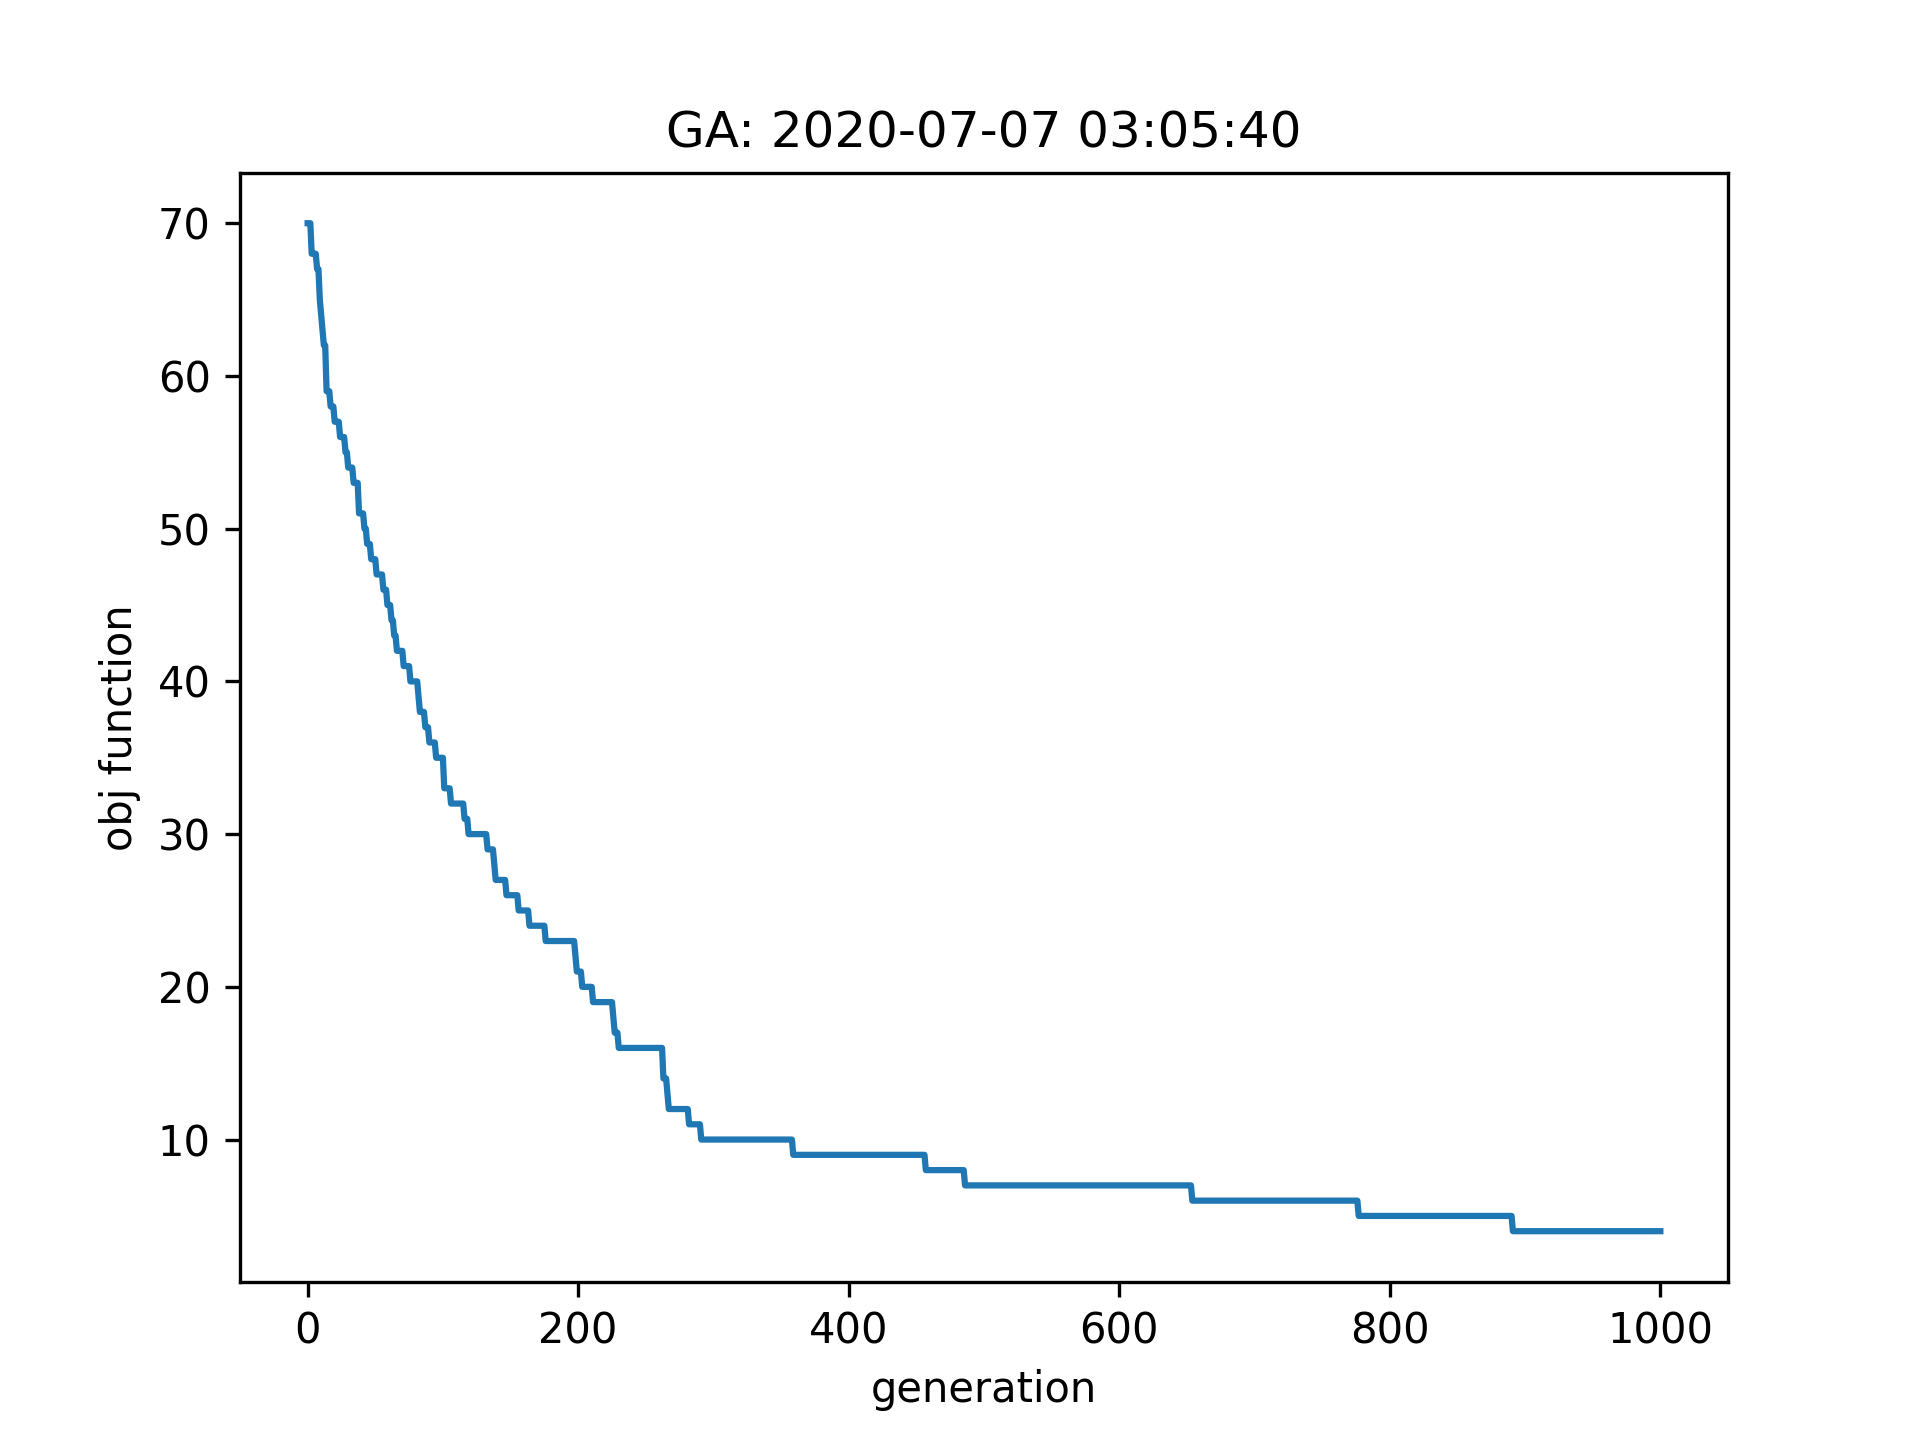
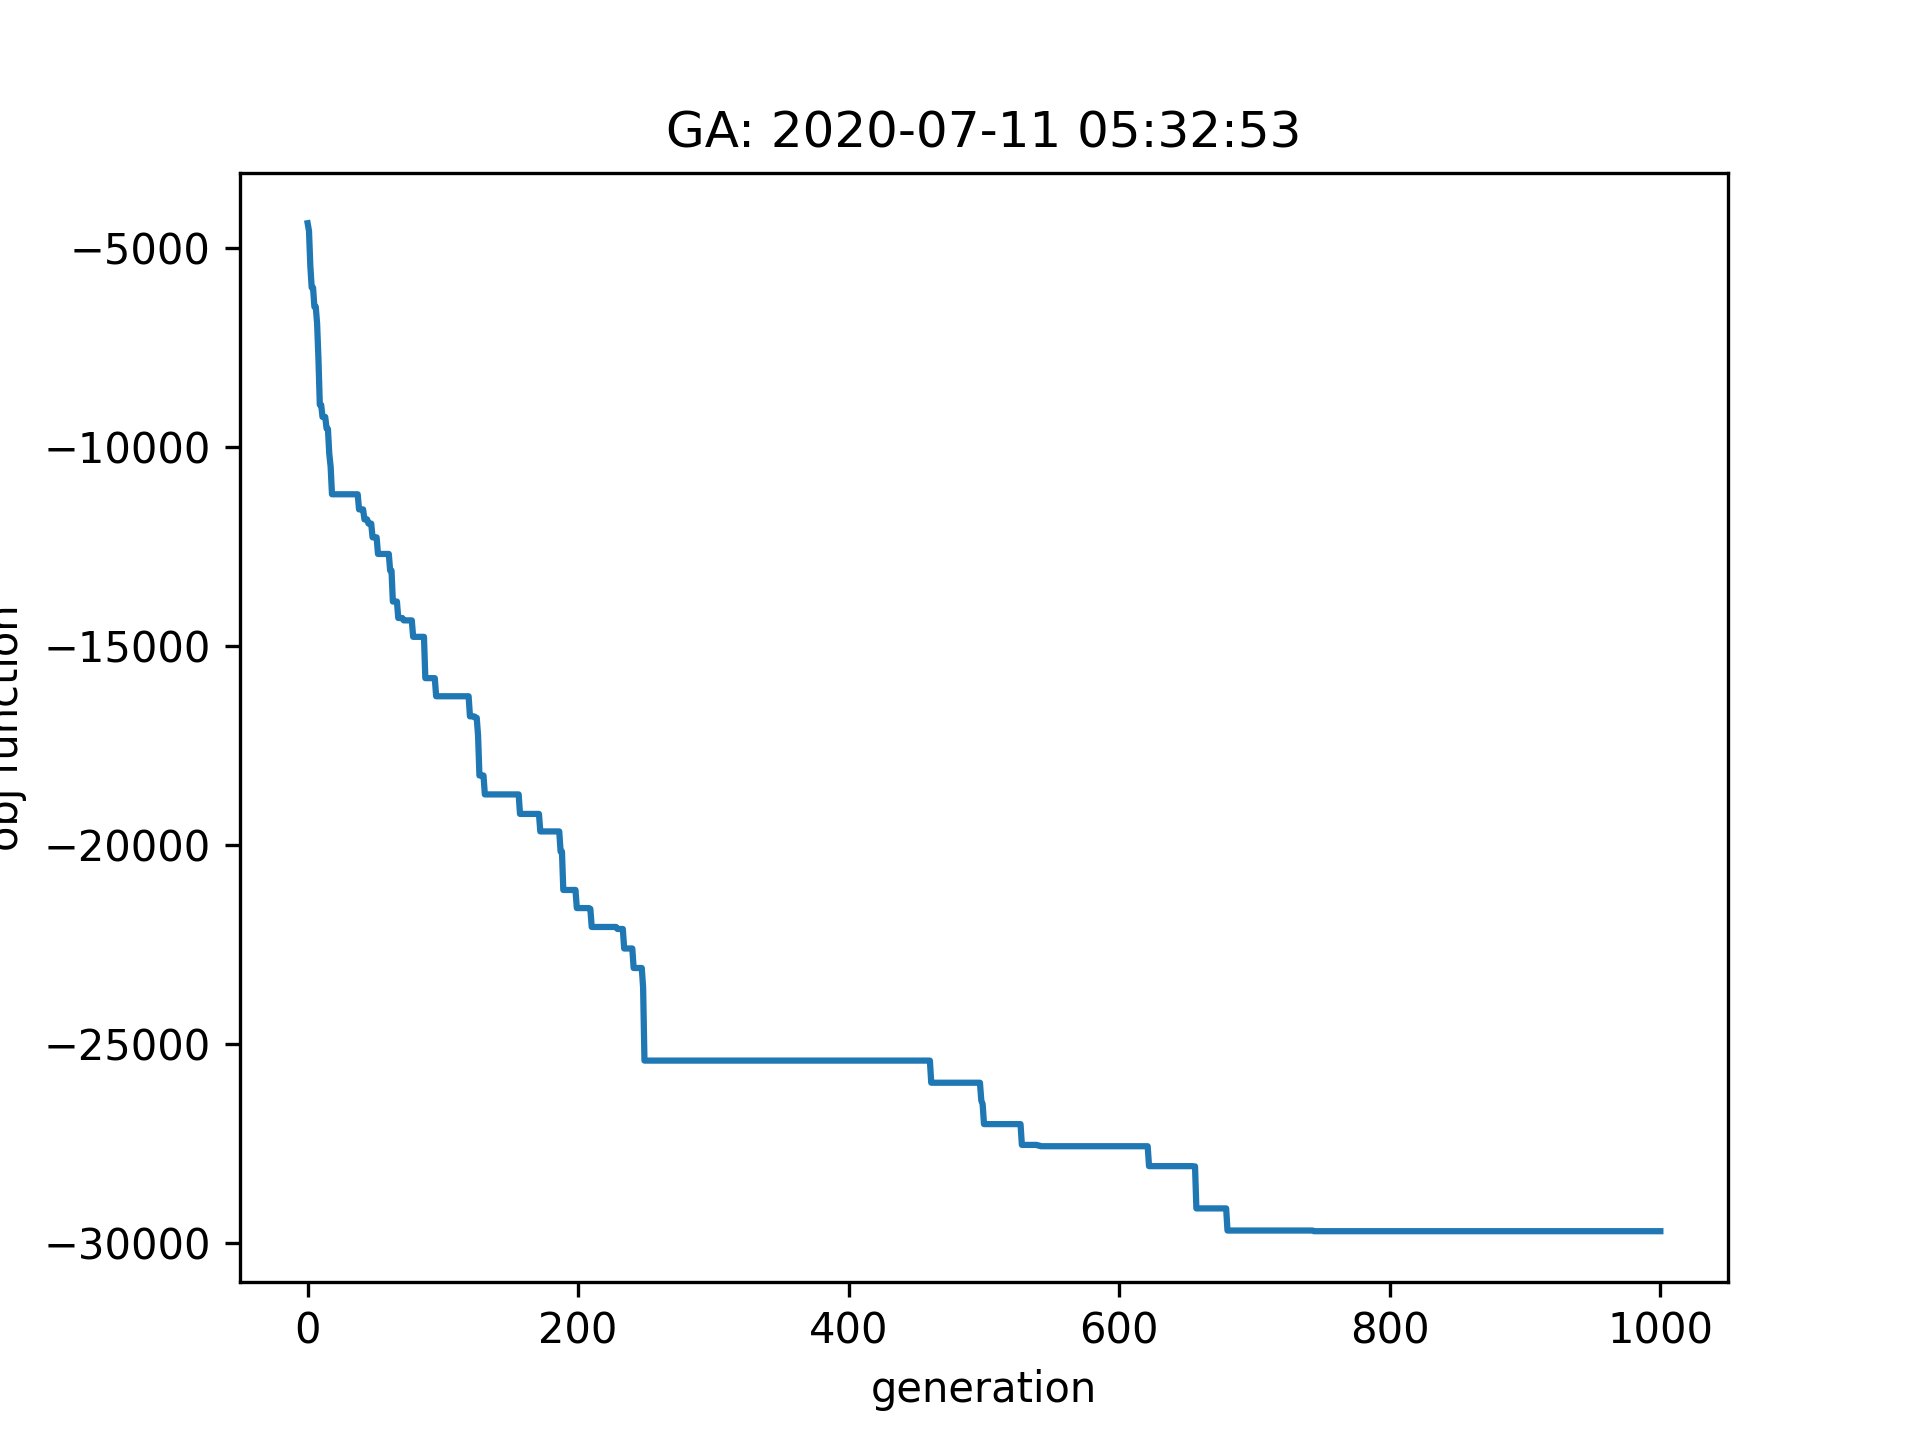
Reads CSV, outputs early assignment with score

diff --git a/src/run_ga.py b/src/run_ga.py
@@ -6,49 +6,60 @@
 import numpy as np
 from geneticalgorithm import geneticalgorithm as ga # ga alg
 import time # time the algorithm
+import pandas as pd # loads csv
+from tempscore import points
 
 # defs
 def f(soln): # this is the objective function the algorithm tries to *minimize*, like an inverse 'fitness'
     # the ga's solution is an array, soln[]
     # don't print anything here or the console is going to be a mess
     objf = 0
+
+    # scores for individual assignment
+    for i in range(n): # iterate through the solution to get assignment scores
+        for j in range(num_choices): #not the same as num_projects
+            if df_choices.iat[i,j] == soln[i]: # (down, right) -- (0,2) is student 1 choice 3
+                objf += points(j+1, num_projects, 100) # points function when that's done, need + 1 because its indexed at 0 (choice 1 is j=0)
+                break
+            if j == num_choices: # didn't get any of their picks :(
+                objf += points(0, num_projects, 100)
     
-    ### some example returns ###
-    ## return for matching
-    for i in range(len(y)):
-        if soln[i] != y[i]: # want to match bits
-            objf = objf + 1 # bad points
-    return objf
-    
-    ## return the sum, but maximized
-    #return -sum(soln)
+    # scores for group-related constraints
+    for i in range(1, num_projects+1): # iterate over the solution
+        if 5 <= np.count_nonzero(soln == i) <= 6: # group size restriction
+            objf *= 1.1 # reward for meeting the constraint
+            # does this need to break? think about it
 
-    ## return a specific arrangement of the first 5 bits, minimize the rest
-    # if soln[0] == y[0] and soln[1] == y[1] and soln[2] == y[2] and soln[3] == y[3] and soln[4] == y[4]: 
-    #   return sum(soln)
-    # else:
-    #    return poison # extra bad score
+    return -objf # return negative since our scores are positive
 
+# load CSV (temp)
+infile = '/io/students_n100_c5_p30.csv'
+df = pd.read_csv(infile) # load a file as a variable
+fields = [col for col in df.columns if 'studentChoice' in col] # get columns named 'studentChoice'
+df_choices = pd.read_csv(infile, skipinitialspace=True, usecols=fields) # df with just choices
+print(df_choices)
+# print(df_choices)
+# print(df_choices.iat[0,0])
+# print(df_choices.iat[4,0]) # down then right -- (0,0) is student 1 choice 1
 
-
-
-print("*** RUNNING GA.PY ***\n")
+print("*** RUNNING RUN_GA.PY ***\n")
 
 ## user settings
 # settings that should come from reading the CSV (here for test)
-num_students = 80 # number of students
-num_projects = 20 # total projects available (NOT how many each student can select)
+num_students = df['studentID'].count() # number of students (count each ID)
+num_projects = 30 # total projects available
+num_choices = 5 # total choices
 n = num_students # chromosome length 
 
 # hyperparameters
 num_iterations = 1000
-poison = 9999 # spindle poison, value should disqualify that solution
+poison = 1 # spindle poison, value should disqualify that solution
 
 # boundaries
 var_bound=np.array([[1,num_projects]]*n) # boundaries the ga will stick to. should equal the project number spread
 
 # array to match (for testing ga speed, not needed for 'live' use)
-y = np.random.randint(1, num_projects, n) # make a random array
+#y = np.random.randint(1, num_projects, n) # make a random array
 
 # hyperparameters
 ga_params = {'max_num_iteration': num_iterations,\
@@ -58,7 +69,7 @@ ga_params = {'max_num_iteration': num_iterations,\
                    'crossover_probability': 0.5,\
                    'parents_portion': 0.3,\
                    'crossover_type':'uniform',\
-                   'max_iteration_without_improv':num_iterations*0.4
+                   'max_iteration_without_improv':num_iterations*0.3
                    } 
                    # crossover_type: one_point; two_point, uniform
 
@@ -73,12 +84,17 @@ model=ga(function=f,\
             # with bool, no boundaries needed
 
 # output things
-print('String to match:')
-print('',y,'(',len(y),' items )')
+print('Running for',num_students,'students and',num_projects,'project choices')
 
 # hit it
 t0 = time.time() # go
-model.run() # this is the model defined in geneticalgorithm.py
+best_soln = model.run() # call the model defined in geneticalgorithm.py
 t1 = time.time()
 total = t1-t0 # and stop
-print("\nTime:", total)
+print('\nTime:', total)
+
+
+
+print('Group sizes:')
+for i in range(1, num_projects+1): # number of projects in total
+    print('Project',i,':',np.count_nonzero(best_soln == i))

diff --git a/src/tempscore.py b/src/tempscore.py
@@ -1,0 +1,22 @@
+# points calculation for capstone-colander
+# Kai Brooks
+# github.com/kaibrooks/capstone-colander
+
+# returns points_max, divided evenly down by num_projects, depending on which assignment_choice a student gets
+# eg, 5 projects, 100 points max => 20 points loss per 'step'
+# gets first pick = 100 points, second pick = 80 points, third pick = 60 points, etc
+
+import math # ceil()
+
+def points( assignment_choice, num_projects, points_max ):
+   
+    if assignment_choice > num_projects:
+        exit('Error: assignment choice doesn\'t exist')
+        # in reality this zeroes the entire solutions score and moves on to the next one
+        # but that code isn't implemented yet
+        print('You shouldn\'t see this if the program exited correctly')
+    elif assignment_choice == 0: # if a studen't didn't get any of their choices
+        total = 0
+    else: 
+        total = math.ceil( points_max - (points_max / num_projects)*(assignment_choice - 1) )
+    return total

diff --git a/src/geneticalgorithm.py b/src/geneticalgorithm.py
@@ -435,6 +435,8 @@ class geneticalgorithm():
 
         if self.stop_mniwi==True:
             sys.stdout.write(early_stop_message)
+
+        return self.best_variable
          
          
     def cross(self,x,y,c_type):
